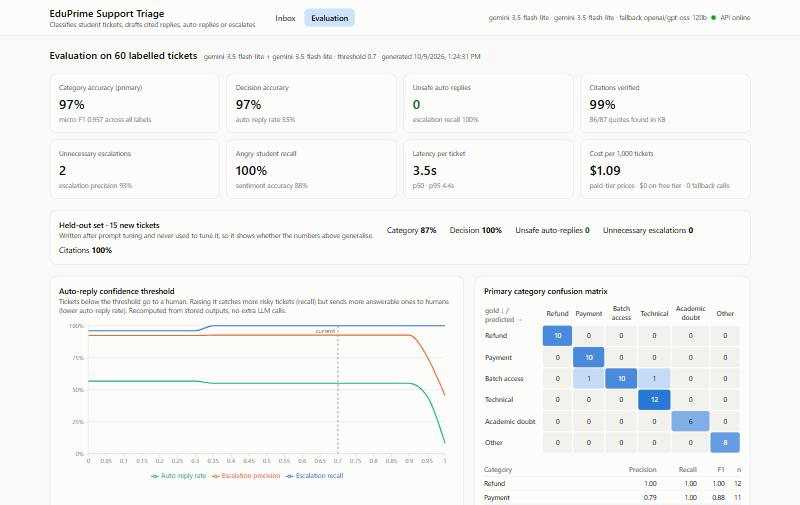
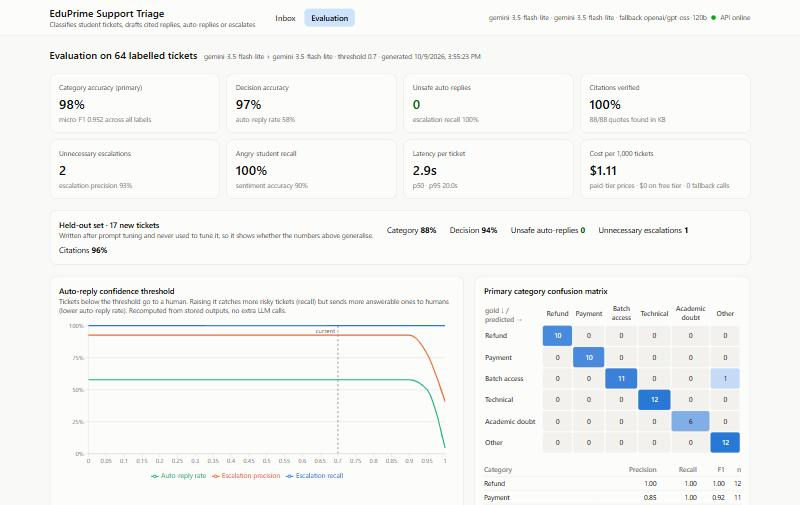
README: demo video, stack, try-it, permanent WhatsApp token, Render deployment, configuration table, updated screenshots

diff --git a/README.md b/README.md
@@ -4,9 +4,10 @@ An AI agent that reads incoming student support queries (email / WhatsApp / web 
 
 Built for the PW Central AI POD assignment, problem statement 6.
 
-- **Live demo:** https://eduprime-ticket-triage.onrender.com (Render free tier: if it was idle, the first load can take ~1 min)
-- **Azure deployment:** _pending Azure for Students approval_
-- **Demo video:** _Loom link_
+- **Live demo:** https://eduprime-ticket-triage.onrender.com
+- **Demo video (3 min):** https://drive.google.com/file/d/15Ie29V_iDQUyFUAaXEHGqtdend-mHn-i/view?usp=sharing
+- **Try it for real:** email `eduprime.support.demo@gmail.com` and get a reply in your thread within about a minute. WhatsApp runs on Meta's test number, which only reaches pre-verified numbers, so it's shown in the video.
+- **Stack:** Python 3.12 · FastAPI · LangGraph + LangChain · Gemini 3.5 Flash-Lite (Groq gpt-oss-120b fallback) · BM25 · SQLite · React + Tailwind + Recharts · Docker on Render · LangSmith · Gmail API · Meta WhatsApp Cloud API
 
 | Inbox (escalated ticket) | Evaluation dashboard |
 |---|---|
@@ -99,8 +100,11 @@ Students can also message a WhatsApp number ([`meta_whatsapp.py`](backend/app/me
 - Meta calls `/api/whatsapp/meta-webhook`. The one-time verify-token handshake is checked, and **every POST's `X-Hub-Signature-256` is verified with the app secret**, so forged requests are rejected (403, counted in `/api/health`).
 - The webhook answers Meta immediately and triages in the background; the reply is sent through the Graph API as normal text. That's allowed within 24 h of the student's message, so no templates are needed. Escalations get an acknowledgement and a senior alert, and agents' approved replies go out on WhatsApp too.
 - Duplicate deliveries (Meta retries) are ignored by message id; status updates and non-text messages are skipped.
-- Setup gotchas found while wiring it up: the app must be **subscribed to the WhatsApp Business Account** (`POST /{waba-id}/subscribed_apps`) **and** to the `messages` webhook field. Saving the callback URL alone delivers nothing.
-- Demo limits: Meta's free test number only messages up to 5 verified recipients, and the quick-start access token expires after 24 h (production uses a system-user token and a registered business number).
+- Auth uses a **System User access token that never expires** (scopes `whatsapp_business_messaging` and `whatsapp_business_management` only). The dashboard's "temporary" token lasts about 2 hours, which broke replies mid-demo the first time (`131005 Access denied`).
+- Setup gotchas found while wiring it up, each diagnosed through the Graph API:
+  - the app must be **subscribed to the WhatsApp Business Account** (`POST /{waba-id}/subscribed_apps`) **and** to the `messages` webhook field. Saving the callback URL alone delivers nothing.
+  - an app secret pasted twice silently fails every signature check, which is why rejected signatures are counted in `/api/health`.
+- Demo limit: Meta's free test number only messages up to 5 pre-verified recipients. Production would use a registered business number.
 - A Twilio implementation ([`whatsapp_channel.py`](backend/app/whatsapp_channel.py)) is kept as an alternative. On a Twilio *trial*, the newer WhatsApp sandbox rejects API-sent free-form messages (error 21654) and templates are paid-only, so the app replies inside the webhook response (TwiML) when triage finishes within Twilio's 15 s window.
 
 ---
@@ -143,12 +147,12 @@ Critical pre-check tickets cost $0 (no LLM call). Results are cached by (ticket,
 
 ## How it was tested
 
-- **75 unit tests** ([`backend/tests`](backend/tests)) with no API keys needed, run in CI on every push. They cover KB parsing and retrieval, every pre-check rule, citation verification (valid, fabricated quote, unknown passage, missing marker, punctuation tolerance), every escalation rule, the full LangGraph run with a fake LLM (happy path, critical flag skips the LLM, LLM failure escalates instead of crashing), rate-limit retry, cost accounting, the API, and the email channel (parsing, signature/quote stripping, loop prevention, auto-reply, acknowledgement + senior alert, failed sends) against fake mail servers.
+- **75 unit tests** ([`backend/tests`](backend/tests)) with no API keys needed, run in CI on every push. They cover KB parsing and retrieval, every pre-check rule, citation verification (valid, fabricated quote, unknown passage, missing marker, punctuation tolerance), every escalation rule, the full LangGraph run with a fake LLM (happy path, critical flag skips the LLM, LLM failure escalates instead of crashing), rate-limit retry, cost accounting, the API, the email channel (parsing, signature/quote stripping, loop prevention, auto-reply, acknowledgement + senior alert, failed sends) against fake mail servers, and both WhatsApp integrations (Meta handshake, forged-signature rejection, retries de-duplicated, status updates ignored, agent replies; Twilio signature and TwiML replies). A test-wide guard blocks any real HTTP call, so tests can never touch real services even with live keys in `.env`.
 - **Labelled test set:** 64 tickets ([`backend/data/tickets/test_set.json`](backend/data/tickets/test_set.json)) covering all categories, 12 Hinglish, 8 multi-issue, 4 pre-sales (course / admissions), angry and legal-threat tickets, prompt injection, a safety case, and edge cases ("hello", "thank you"). Each has gold categories, decision and sentiment.
 - **Held-out set:** 17 more tickets written after tuning ([`holdout_set.json`](backend/data/tickets/holdout_set.json)).
 - **Eval runner** ([`backend/eval/run_eval.py`](backend/eval/run_eval.py)): category accuracy and F1, confusion matrix, escalation precision/recall, unsafe auto-replies, sentiment, citation validity, latency, cost and fallback rate. The threshold sweep reuses stored outputs, so it costs no extra LLM calls.
 - **LangSmith tracing:** every graph run (each node, prompt, tokens and latency) is traced to LangSmith when `LANGSMITH_API_KEY` is set.
-- **End-to-end checks:** the Docker image was run locally (health, UI, a real triage), and the fallback was tested by pointing the primary at a non-existent model.
+- **End-to-end checks:** the Docker image was run locally (health, UI, a real triage); the fallback was tested by pointing the primary at a non-existent model; and real emails and WhatsApp messages were sent to the live deployment, checking each ticket's delivery log.
 
 ---
 
@@ -162,11 +166,12 @@ Critical pre-check tickets cost $0 (no LLM call). Results are cached by (ticket,
 - **Regex pre-checks** catch common phrasings only. A rephrased injection or threat falls through to the LLM, which is still told to treat the ticket as data, and the reply can never trigger actions (there are no tools).
 - **Free-tier rate limits:** under a burst of live traffic, requests wait and retry, and if both providers stay exhausted the ticket is escalated with a holding reply, never dropped.
 - **Storage:** SQLite on a free host is wiped on restart; the inbox is re-seeded with sample tickets at startup. SQLAlchemy makes Postgres a connection-string change.
-- **Channels:** email (Gmail) and WhatsApp (Meta Cloud API test number) are integrated. Manually pasted tickets have no channel, so "Approve & send" only logs those replies. The WhatsApp test setup only reaches verified recipient numbers and its token lasts 24 h.
+- **Channels:** email (Gmail) and WhatsApp (Meta Cloud API test number) are integrated. Manually pasted tickets have no channel, so "Approve & send" only logs those replies. The WhatsApp test number only reaches pre-verified recipients.
+- **Free-tier Gmail on a brand-new account** got its App Password revoked once by Google's security checks; a real deployment would use a Google Workspace account or a service with a domain.
 
 ## What I'd do next
 
-- Move WhatsApp to a registered business number with a permanent system-user token.
+- Move WhatsApp to a registered business number (the code already uses a permanent system-user token).
 - Look up order and refund status from the payments system, so status questions can be auto-answered instead of escalated.
 - A calibrated confidence (self-consistency) and a larger, independently labelled test set.
 - An agent-feedback loop: log agent edits to drafts and use them as new eval cases.
@@ -204,8 +209,26 @@ docker run --env-file .env -p 7860:7860 eduprime-triage
 
 One Docker image runs everywhere. FastAPI serves both the API and the built React app on one port.
 
-- **Hugging Face Spaces (live demo):** [`.github/workflows/deploy-hf.yml`](.github/workflows/deploy-hf.yml) mirrors the repo to a Docker Space on every push. Set repo secret `HF_TOKEN` and variable `HF_SPACE`, and add the three API keys as Space secrets.
-- **Azure App Service (container):** [`.github/workflows/docker-publish.yml`](.github/workflows/docker-publish.yml) runs the tests, then builds and pushes `ghcr.io/ranjan83711/eduprime-ticket-triage:latest`. A Linux Web App for Containers pulls that image, with the API keys set as App Settings and `WEBSITES_PORT=7860`. Using GHCR instead of Azure Container Registry avoids the registry cost.
+- **Render (live demo):** a free Docker web service built straight from this repo, with automatic deploys on every push to `main`. **UptimeRobot** calls `/api/health` every 5 minutes so the free instance never sleeps (Render free sleeps after 15 min idle, which would also pause the email poller). Render's free tier blocks outbound SMTP, which is why email is sent through the Gmail API.
+- **CI:** [`.github/workflows/docker-publish.yml`](.github/workflows/docker-publish.yml) runs the unit tests and publishes the image to `ghcr.io/ranjan83711/eduprime-ticket-triage` on every push.
+- **Azure App Service (container):** the same GHCR image runs as a Linux Web App for Containers (settings as App Settings, `WEBSITES_PORT=7860`, `DB_PATH=/home/data/triage.db` for persistent storage). Pending Azure for Students approval at the time of writing.
+- **Hugging Face Spaces:** [`.github/workflows/deploy-hf.yml`](.github/workflows/deploy-hf.yml) can mirror the repo to a Docker Space (needs `HF_TOKEN` and `HF_SPACE`); not used, since Docker Spaces now need a paid plan.
+
+### Configuration
+
+All settings are environment variables (`.env` locally, the host's settings in production); see [`.env.example`](.env.example).
+
+| Variable | Needed for |
+|---|---|
+| `GOOGLE_API_KEY`, `GROQ_API_KEY` | LLM calls (Gemini primary, Groq fallback) |
+| `LANGSMITH_API_KEY`, `LANGSMITH_TRACING`, `LANGSMITH_PROJECT` | Tracing (optional) |
+| `EMAIL_ADDRESS`, `EMAIL_APP_PASSWORD`, `SENIOR_SUPPORT_EMAIL` | Email channel: read the inbox, send senior alerts |
+| `GMAIL_CLIENT_ID`, `GMAIL_CLIENT_SECRET`, `GMAIL_REFRESH_TOKEN` | Send via the Gmail API instead of SMTP (run `python -m scripts.gmail_auth` once) |
+| `META_WA_TOKEN`, `META_WA_PHONE_NUMBER_ID`, `META_APP_SECRET`, `META_WA_VERIFY_TOKEN` | WhatsApp via Meta Cloud API |
+| `TWILIO_ACCOUNT_SID`, `TWILIO_AUTH_TOKEN` | WhatsApp via Twilio (alternative) |
+| `CLASSIFIER_MODEL`, `DRAFTER_MODEL`, `FALLBACK_MODEL`, `AUTO_REPLY_CONFIDENCE`, `DB_PATH` | Optional overrides |
+
+Each channel switches on only when its settings are present, and **only one running instance should have the channel settings**, otherwise every message gets answered twice.
 
 ## Project structure
 
@@ -213,10 +236,14 @@ One Docker image runs everywhere. FastAPI serves both the API and the built Reac
 backend/
   app/            graph.py (LangGraph), llm.py (Gemini + Groq fallback), prechecks.py, kb.py (BM25),
                   citations.py, escalation.py, prompts.py, schemas.py, db.py, main.py (FastAPI)
+                  inbound.py (shared channel flow), email_channel.py (Gmail), meta_whatsapp.py (Meta),
+                  whatsapp_channel.py (Twilio)
+  scripts/        gmail_auth.py (one-time Gmail API sign-in)
   data/kb/        12 knowledge-base docs (markdown)
   data/tickets/   test_set.json (64), holdout_set.json (17)
   eval/           run_eval.py, report.json
   tests/          75 unit tests
 frontend/src/     Inbox, TicketDetail, EvalDashboard (React + Tailwind + Recharts)
+docs/             screenshots, demo-video-script.md
 Dockerfile        multi-stage: build React, then Python runtime
 ```
